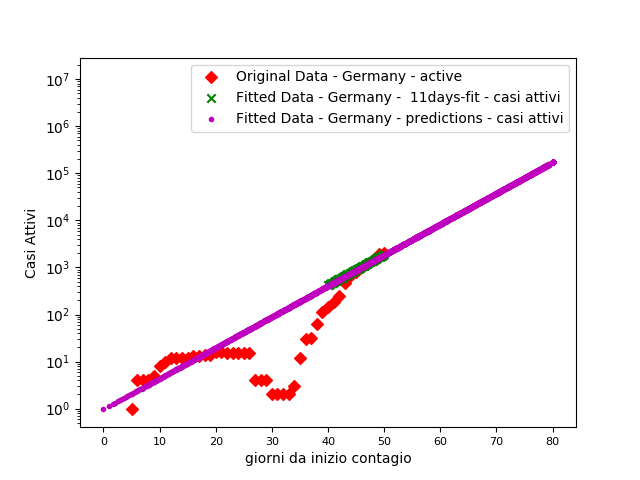
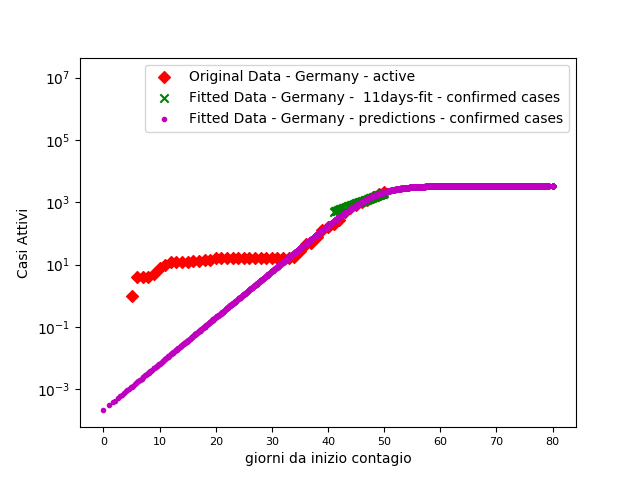
last fit

diff --git a/csse_covid_19_data/csse_covid_19_time_series/dati_mondiali.py b/csse_covid_19_data/csse_covid_19_time_series/dati_mondiali.py
@@ -172,10 +172,10 @@ def fit_data(x,y,func):
         # plt.legend(loc='best')
         # plt.xticks(rotation=15, ha="right")
 
-        return xModel,yModel,fittedParameters
+        return xModel,yModel,fittedParameters,Rsquared
     except:
         print('failed to fit data')
-        return [],[],[]
+        return [],[],[],[]
 
 
 
@@ -191,8 +191,7 @@ def plot_data(Xdata,Ydata,country,label,color,logscale=False):
 
 
 def plot_model(xModel,yModel,country,label,color,marker,logscale=False):
-        # plt.xlabel('X Data') # X axis data label
-        # plt.ylabel('Y Data') # Y axis data label
+
         if logscale:
             plt.yscale('log')
 
@@ -242,43 +241,67 @@ def recompute_fit(dataframe,label,country,newfit):
 # graphWidth = 800
 # graphHeight = 600
 
-# countrylist = ['Italy']
+countrylist = ['Italy']
+# countrylist = ['United Kingdom']
 for country in countrylist:
     if country in countrylist_df:
         logger.info('plotting {} data'.format(country))
         # try:
         print(country)
-        logscale= True
-        dataframe,x,y = extract_database(country,active_df_reshaped)
+        logscale= False
+        databasename = 'confirmed cases'
+        dataframe,x,y = extract_database(country,confirmed_df_reshaped)
         date = dataframe.index.values
         start_prediction_date=date
         stop_prediction_date=80
-        date_prediction = np.arange(0,80)
-        print(date_prediction)
-        xModel,yModel,fittedParameters_10 = fit_data(x[-11:],y[-11:],exp_func)
+        date_prediction = np.arange(0,stop_prediction_date)
+        xModel, yModel, fittedParameters_10, Rsquared = fit_data(x, y, sigmoidal_func)
+        plt.figure(num=country+'_justfit')
+        plot_data(date,y,country,'active','r',logscale=logscale)
+        plot_model(xModel, yModel, country, ' fit - ' + databasename, 'g', marker='x', logscale=logscale)
+        plt.show()
+
+        plt.figure(num=country)
+        xModel,yModel,fittedParameters_10,Rsquared = fit_data(x[-10:],y[-10:],exp_func)
+        # xModel,yModel,fittedParameters_10,Rsquared = fit_data(x,y,exp_func)
         plt.figure(num=country)
         plot_data(date,y,country,'active','r',logscale=logscale)
-        plot_model(xModel,yModel,country,' 11days-fit - casi attivi','g',marker='x',logscale=logscale)
+        # if Rsquared > 0.8:
+        # plot_model(xModel,yModel,country,' 11days-fit - '+databasename,'g',marker='x',logscale=logscale)
+        # else:
 
 
-
-        # fittedParameters, pcov = curve_fit(lambda t, a, b: a/(1+np.exp(-fittedParameters_10[0]*(t-b))), x, y, maxfev=5000)
         fittedParameters, pcov = curve_fit(sigmoidal_func, x, y, maxfev=5000,p0=[1,1,-fittedParameters_10[0]])
-        # fittedParameters, pcov = curve_fit(sigmoidal_func, x, y, maxfev=5000,p0=[1,1,1])
-        # fittedParameters, pcov = curve_fit(sigmoidal_func, x, y, maxfev=5000)#[1.80742681e+04 4.77094523e+01 2.94617422e-01]
+
         print('Parameters:', fittedParameters)
-        # modelPredictions = sigmoidal_func(y[-10:], fittedParameters[0],fittedParameters[1],fittedParameters_10[0])
-        modelPredictions = sigmoidal_func(y[-10:], *fittedParameters)
+
+        modelPredictions = sigmoidal_func(y, *fittedParameters)
+
+        absError = modelPredictions[0:len(y)] - y
+
+        SE = np.square(absError)  # squared errors
+        MSE = np.mean(SE)  # mean squared errors
+        RMSE = np.sqrt(MSE)  # Root Mean Squared Error, RMSE
+        Rsquared = 1.0 - (np.var(absError) / np.var(y))
+
+        print('Parameters:', fittedParameters)
+        print('RMSE:', RMSE)
+        print('R-squared:', Rsquared)
+
         xModel = np.linspace(start_prediction_date, stop_prediction_date)
         yModel = sigmoidal_func(xModel, *fittedParameters)
-        # yModel = sigmoidal_func(xModel, fittedParameters[0],fittedParameters[1],fittedParameters_10[0])
-        plot_model(xModel, yModel, country, 'predictions - casi attivi', 'm',marker='.', logscale=logscale)
-        plt.xlabel('giorni da inizio contagio') # X axis data label
-        plt.ylabel('Casi Attivi') # Y axis data label
+        # if Rsquared > 0.5:
+        plot_model(xModel, yModel, country, 'predictions - '+databasename, 'm',marker='.', logscale=logscale)
+        # else:
+        #     print('Model did not converge')
+
+        plt.xlabel('days since it started') # X axis data label
+        plt.ylabel('confirmed cases') # Y axis data label
         plt.legend(loc='best',fontsize='10')
         # plt.xticks(np.arange(22, 80, step=1))
         if logscale:
             plt.savefig('./Figures/' + country + '_fitted_log.png', dpi=100)
+            plt.ylim(1,1e5)
         else:
             plt.savefig('./Figures/' + country + '_fitted.png', dpi=100)
 
